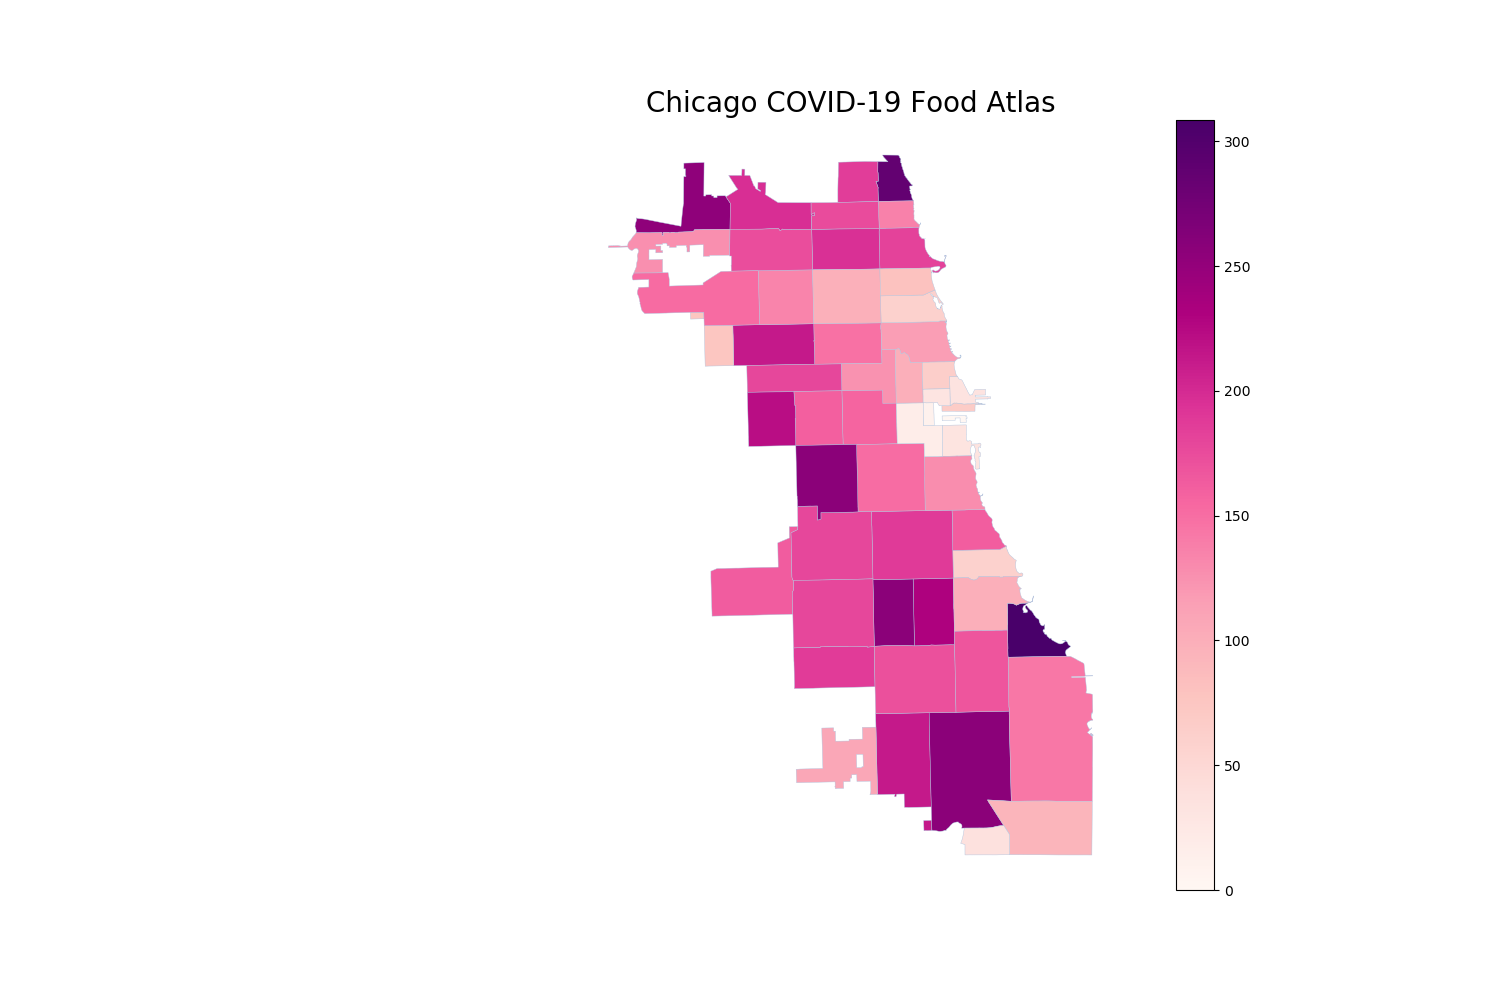
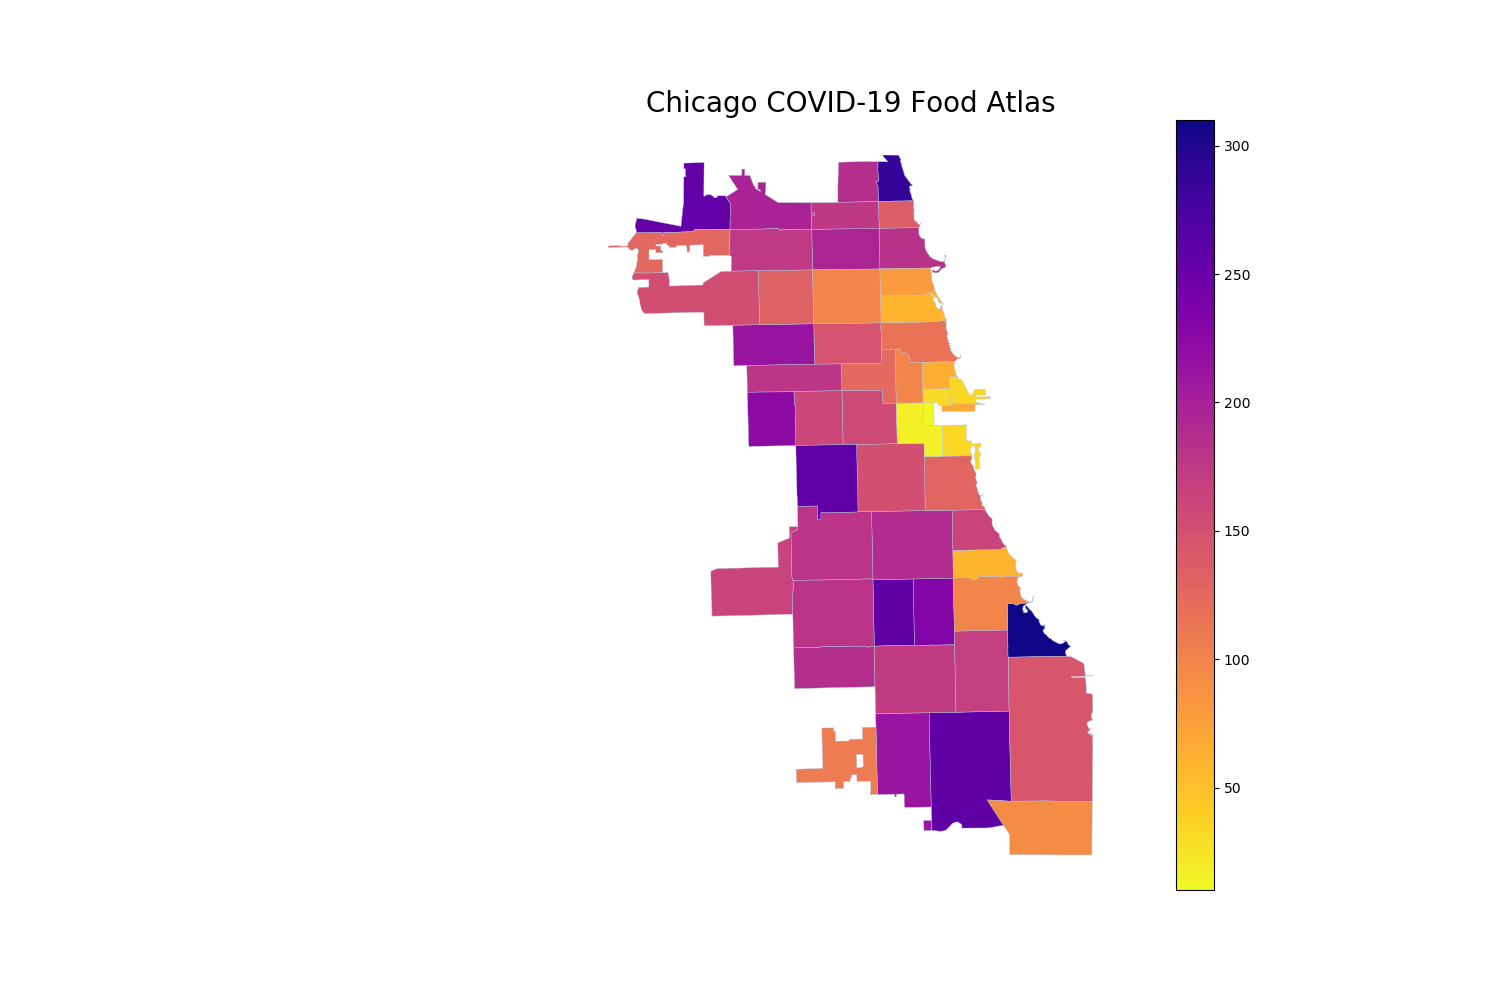
Charts by population

Changed region(s): [[0.3987, 0.155, 0.736, 0.868], [0.7667, 0.124, 0.828, 0.899]]

diff --git a/chifood/static_maps.py b/chifood/static_maps.py
@@ -6,6 +6,7 @@ Valeria Balza, Gabriela Palacios, Sophia Mlwawer and Mariel Wiechers
 '''
 
 import pandas as pd
+import numpy as np
 import geopandas as gpd
 import matplotlib.pyplot as plt
 
@@ -14,7 +15,12 @@ ALL_DATA = 'data/full_zip.csv'
 
 def read_in(data):
     df = pd.read_csv(data)
+    df = df[df["total_population"]>4000]
+    df["ratio_per"] = (df["ratio"]/df["total_population"])*100000
+    df["pr_food_per"] = (df["pr_food"]/df["total_population"])*100000
+
     return df
+
 
 def gen_basemap(base_map, data, var):
     '''
@@ -33,27 +39,28 @@ def gen_basemap(base_map, data, var):
     return map
 
 
-def gen_layers(map, var, output_filename):
+def gen_layers(map, var, output_filename, threshold=500):
     '''
     Generates static map. Saves figure as png.
     '''
-
     fig, ax = plt.subplots(figsize=(15, 10))
     out_map = map.plot(ax=ax,
                column=var,
-               cmap='RdPu',
+               cmap='plasma_r',
                legend=True, 
                edgecolor='lightsteelblue', 
-               linewidth=0.3)
+               linewidth=0.3,
+               vmax=threshold)
+
     out_map.axis('off')
     out_map.set_title('Chicago COVID-19 Food Atlas', fontsize=20)
     plt.savefig(output_filename)
 
 def go():
     covid_map = gen_basemap(ZIP_BOUNDARIES, ALL_DATA, "death_rate_cumulative")
-    ratio_map = gen_basemap(ZIP_BOUNDARIES, ALL_DATA, "ratio")
-    predict_ratio_map = gen_basemap(ZIP_BOUNDARIES, ALL_DATA, "pr_food")
-    gen_layers(covid_map, "death_rate_cumulative", "COVID Death Rate.png")
-    gen_layers(ratio_map, "ratio", "Food Insecurity Ratio.png")
-    gen_layers(predict_ratio_map, "pr_food", "Predicted Food Insecurity Ratio.png")
+    ratio_map = gen_basemap(ZIP_BOUNDARIES, ALL_DATA, "ratio_per")
+    predict_ratio_map = gen_basemap(ZIP_BOUNDARIES, ALL_DATA, "pr_food_per")
+    gen_layers(covid_map, "death_rate_cumulative", "COVID Death Rate.png",310)
+    gen_layers(ratio_map, "ratio_per", "Food Insecurity Ratio.png", 40)
+    gen_layers(predict_ratio_map, "pr_food_per", "Predicted Food Insecurity Ratio.png", 40)
 
